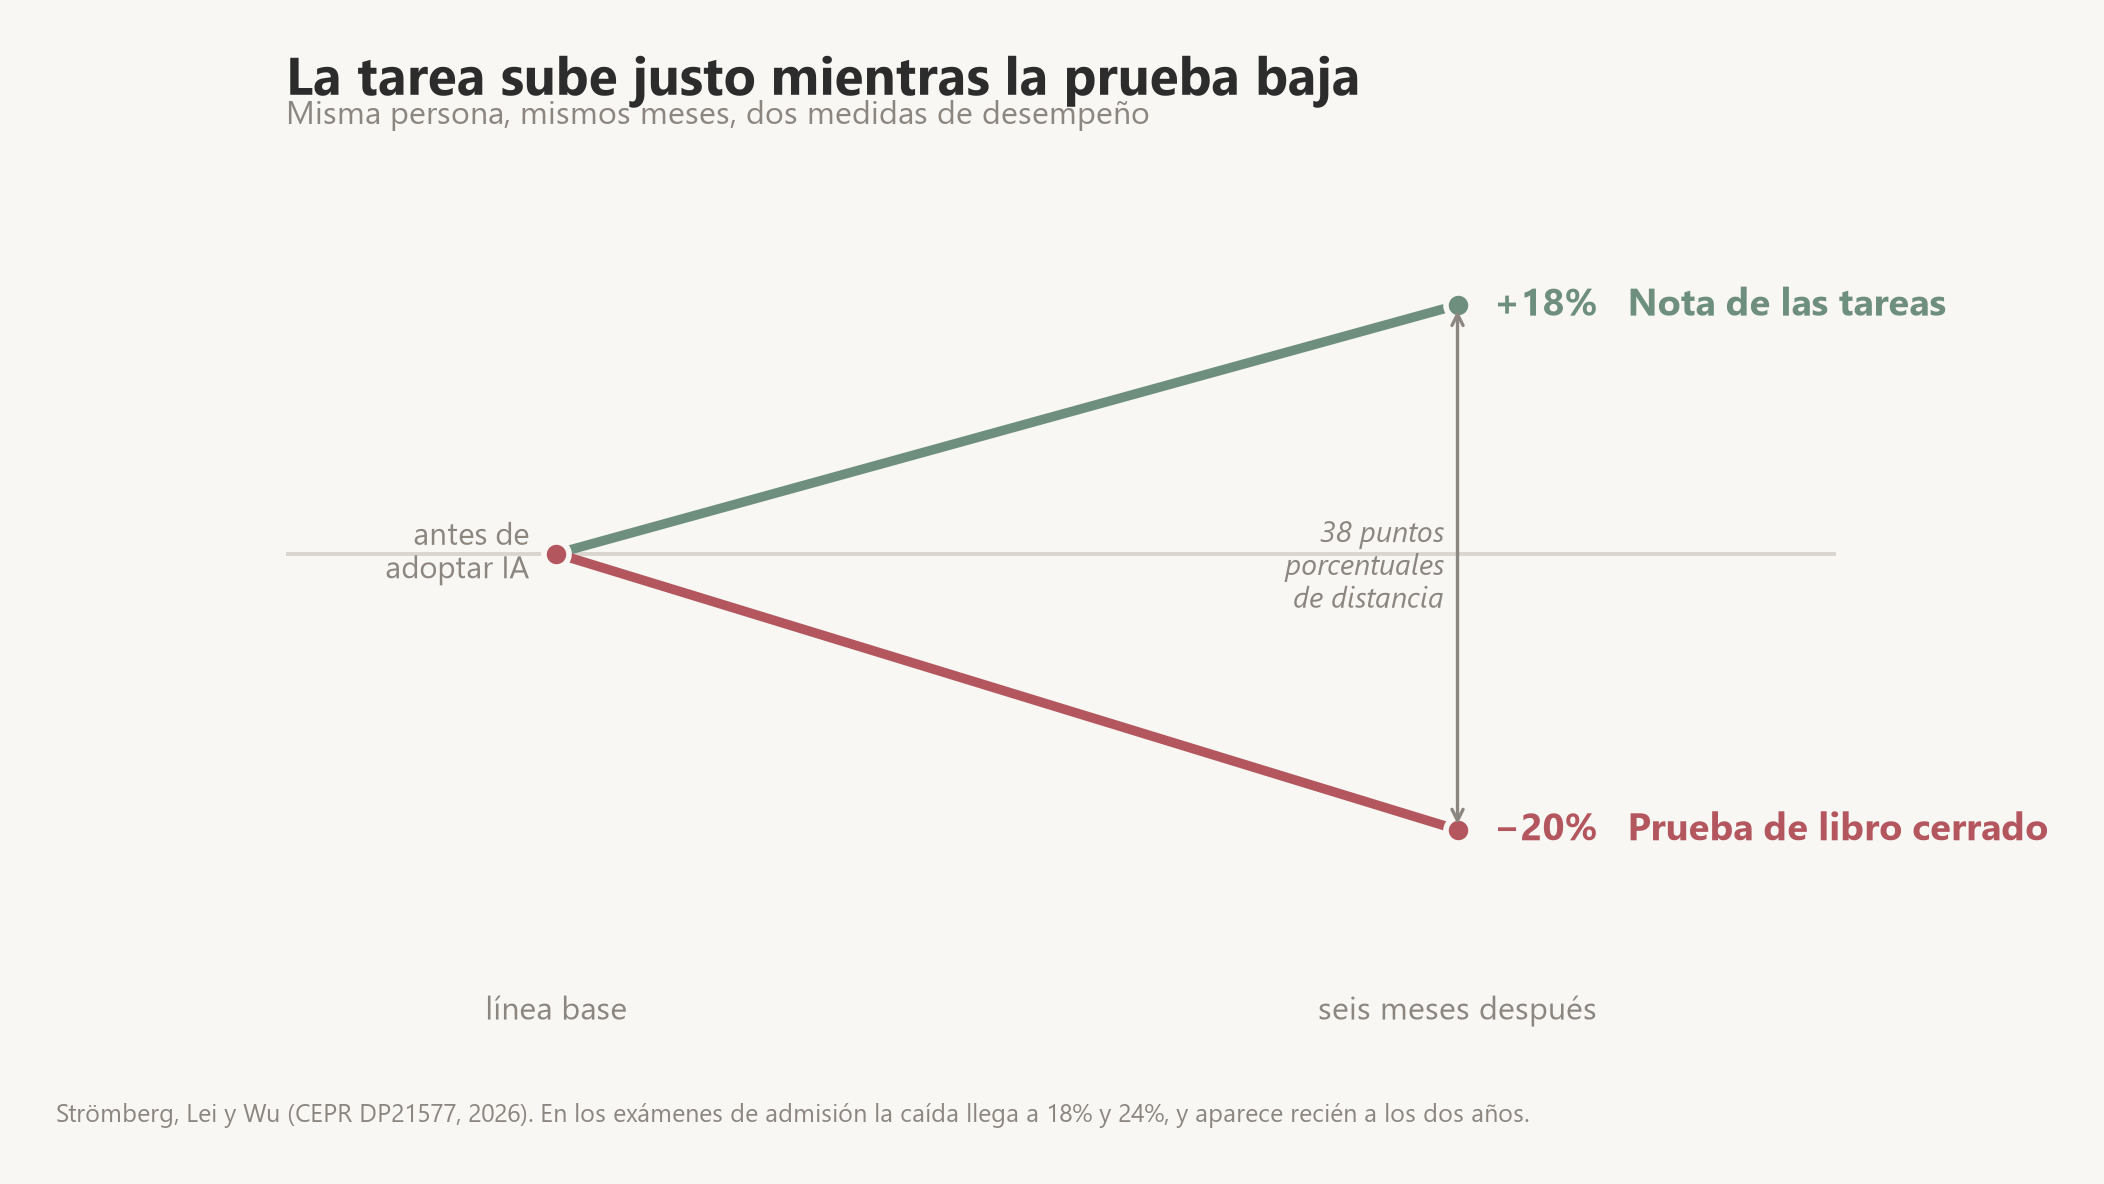
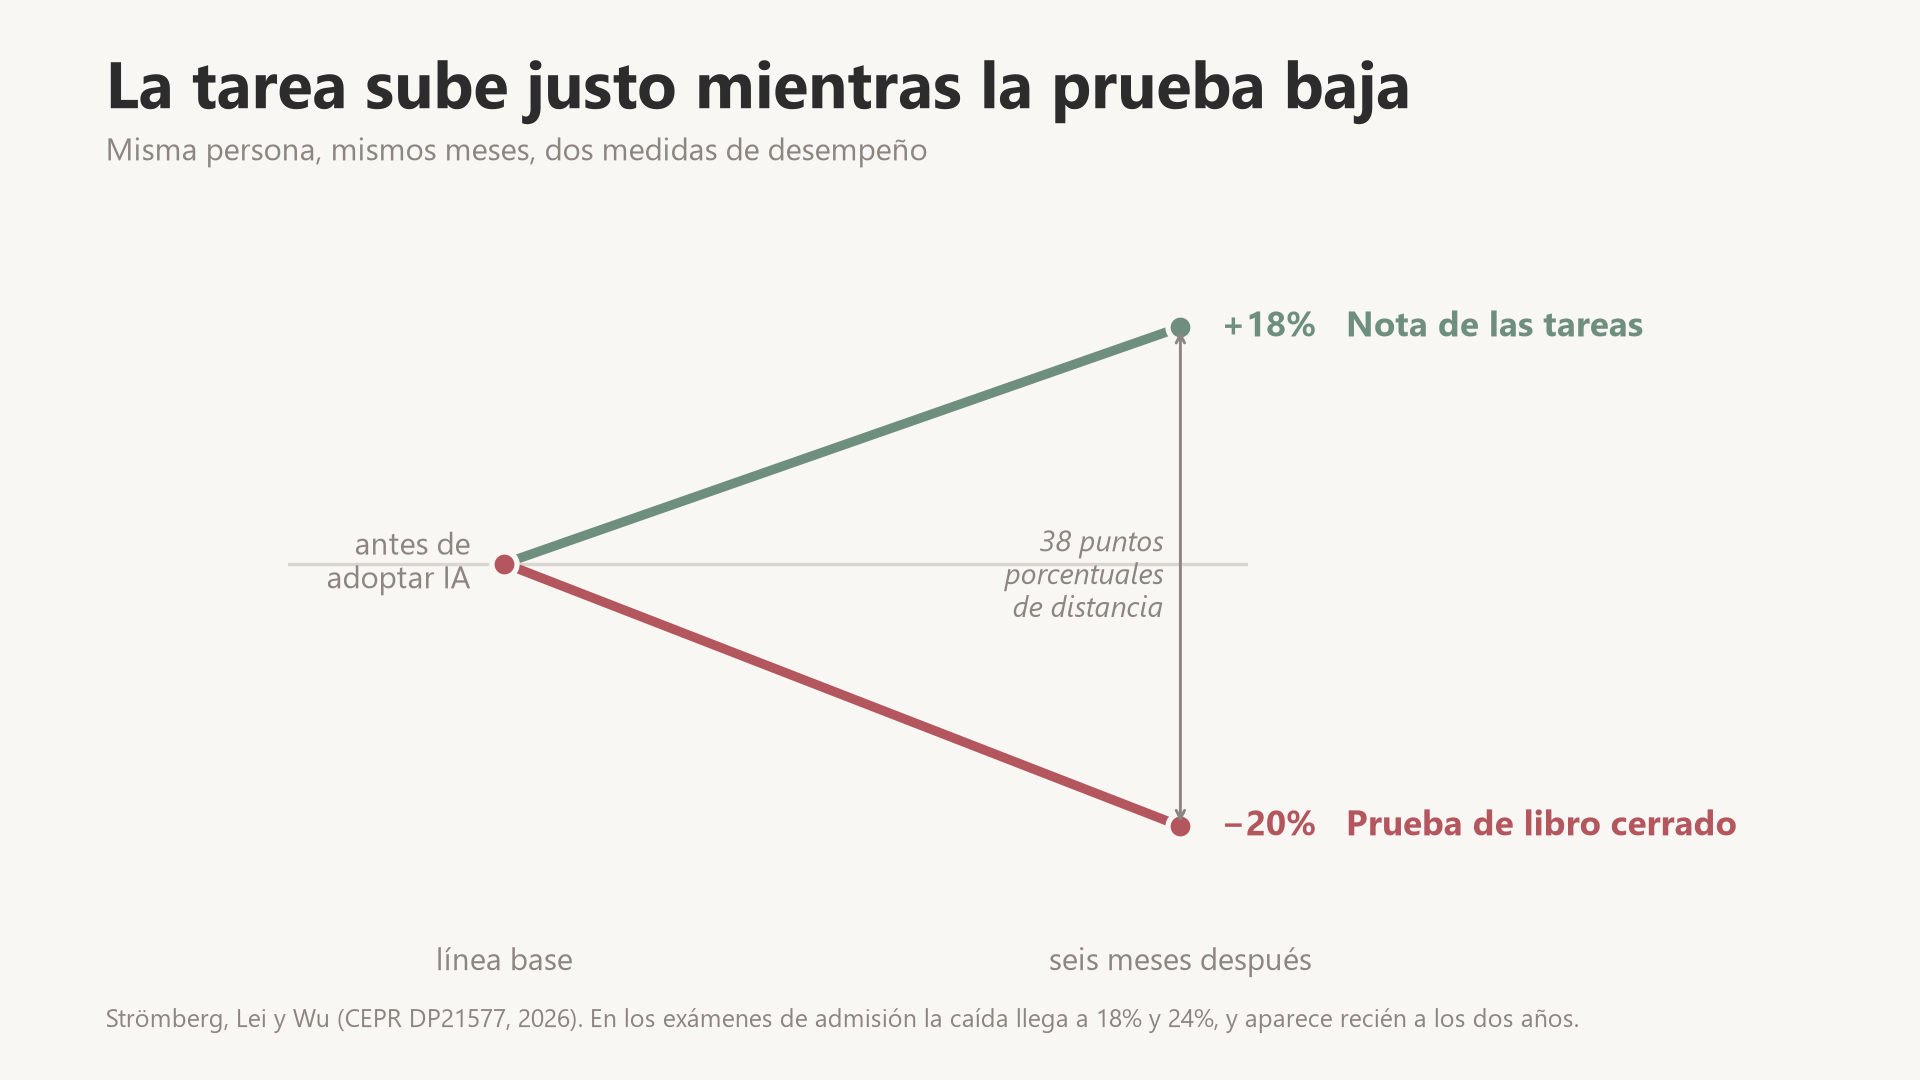
Fija las figuras de la clase 4 a un lienzo 16:9
Con bbox_inches="tight" cada PNG salía recortado al contenido y con una razón
de aspecto distinta, y Google Slides las deforma al meterlas en su caja 16:9.
Ahora los ejes se posicionan a mano en coordenadas de figura sobre un lienzo
de 1920x1080 fijo, y el título, la bajada y la fuente viven en la figura y no
en el eje.

De paso: signo menos tipográfico en vez de guion, y las etiquetas de la
pendiente china dejaron de cortarse contra el borde derecho.

diff --git a/materiales/2026_descripcion_visualizacion_datos/figuras/generar_figuras.py b/materiales/2026_descripcion_visualizacion_datos/figuras/generar_figuras.py
@@ -6,9 +6,17 @@ Cinco gráficos que se insertan en el deck de Google Slides. El estilo replica
 el del template del curso: fondo hueso, texto gris oscuro, acento rosa GobLab,
 sin cajas ni rejillas de más.
 
-Toda cifra que aparece acá está en un paper publicado. Donde el paper no da un
-número (por ejemplo, la magnitud de la pérdida dentro de cada subgrupo chino),
-el gráfico muestra participaciones, no magnitudes inventadas.
+Dos decisiones que conviene no deshacer:
+
+1. **Lienzo fijo de 1920x1080.** Los ejes se posicionan a mano en coordenadas
+   de figura y `bbox_inches` queda en su valor por defecto. Con `bbox="tight"`
+   el PNG sale recortado al contenido, cada figura queda con una razón de
+   aspecto distinta, y Google Slides la deforma al insertarla en una caja 16:9.
+
+2. **Ninguna magnitud inventada.** Toda cifra que aparece acá está en un paper
+   publicado. Donde el paper no reporta un número por subgrupo (por ejemplo, el
+   tamaño de la pérdida dentro de cada mitad de la muestra china), el gráfico
+   muestra participaciones y lo dice.
 
 Fuentes:
   - Otis, Clarke, Delecourt, Holtz y Koning (Management Science, 2026),
@@ -16,8 +24,8 @@ Fuentes:
     Evidence from a Field Experiment in Kenya".
   - Strömberg, Lei y Wu (CEPR DP21577, 2026), "The Generative AI Learning
     Penalty: Evidence from Chinese Secondary Education".
-  - Bastani et al. (PNAS, 2025), "Generative AI without guardrails can harm
-    learning: Evidence from high school mathematics".
+  - Bastani, Bastani, Sungu, Ge, Kabakcı y Mariman (PNAS, 2025), "Generative AI
+    without guardrails can harm learning: Evidence from high school mathematics".
 
     python generar_figuras.py            # escribe los .png en esta carpeta
 """
@@ -40,10 +48,12 @@ GOOD = "#6E8F7D"
 BAD = "#B4565E"
 LINE = "#DAD5CE"
 
+MINUS = "−"   # signo menos tipográfico, no un guion
+
 _installed = {f.name for f in font_manager.fontManager.ttflist}
-for candidate in ("Libre Franklin", "Segoe UI", "Helvetica Neue", "Arial"):
-    if candidate in _installed:
-        FONT = candidate
+for _candidate in ("Libre Franklin", "Segoe UI", "Helvetica Neue", "Arial"):
+    if _candidate in _installed:
+        FONT = _candidate
         break
 else:
     FONT = "DejaVu Sans"
@@ -54,32 +64,24 @@ plt.rcParams.update({
     "axes.facecolor": PAPER,
     "savefig.facecolor": PAPER,
     "text.color": INK,
-    "axes.labelcolor": INK,
     "xtick.color": MUTED,
     "ytick.color": INK,
-    "axes.edgecolor": LINE,
-    "savefig.dpi": 200,
-    "savefig.bbox": "tight",
-    "savefig.pad_inches": 0.28,
+    "savefig.dpi": 150,          # 12.8 x 7.2 pulgadas -> 1920 x 1080
 })
 
 
-def _frame(ax):
-    """Deja solo lo indispensable: sin marco, sin ticks, con línea de cero."""
+def canvas(title, subtitle, source, rect=(0.055, 0.16, 0.90, 0.60)):
+    """Lienzo 16:9 con título, bajada y fuente en posiciones fijas."""
+    fig = plt.figure(figsize=(12.8, 7.2))
+    fig.text(0.055, 0.885, title, fontsize=31, fontweight="bold", color=INK, va="bottom")
+    fig.text(0.055, 0.845, subtitle, fontsize=15, color=MUTED, va="bottom")
+    fig.text(0.055, 0.055, source, fontsize=12, color=MUTED, va="center")
+    ax = fig.add_axes(rect)
+    ax.set_facecolor(PAPER)
     for side in ("top", "right", "left", "bottom"):
         ax.spines[side].set_visible(False)
     ax.tick_params(length=0)
-    ax.set_xticks([])
-
-
-def _titles(ax, title, subtitle):
-    ax.set_title(title, fontsize=19, fontweight="bold", loc="left", pad=26, color=INK)
-    ax.text(0, 1.045, subtitle, transform=ax.transAxes, fontsize=11.5,
-            color=MUTED, ha="left", va="bottom")
-
-
-def _source(fig, text):
-    fig.text(0.01, -0.02, text, fontsize=9, color=MUTED, ha="left", va="top")
+    return fig, ax
 
 
 def _save(fig, name):
@@ -89,178 +91,186 @@ def _save(fig, name):
     print("  escrito:", name)
 
 
+def _pct(v):
+    return ("+" if v > 0 else MINUS) + f"{abs(v)}%"
+
+
 # ── 1. Kenia: la brecha que se abre ────────────────────────────
 def kenia_brecha():
-    fig, ax = plt.subplots(figsize=(10, 4.4))
+    fig, ax = canvas(
+        "Kenia: la misma herramienta, efectos opuestos",
+        "Efecto del acceso a un asistente GPT-4 por WhatsApp sobre las utilidades del negocio "
+        "· 640 emprendedores · 2,5 meses",
+        "Otis, Clarke, Delecourt, Holtz y Koning (Management Science, 2026)",
+        rect=(0.20, 0.16, 0.72, 0.62))
+
     labels = ["Ya les iba mal\nantes del experimento",
               "Promedio\nde los 640",
               "Ya les iba bien\nantes del experimento"]
     values = [-8, 0, 15]
     colors = [BAD, MUTED, GOOD]
 
-    bars = ax.barh(labels, values, height=0.62, color=colors)
-    ax.axvline(0, color=INK, lw=1.4)
+    bars = ax.barh(labels, values, height=0.6, color=colors)
+    ax.axvline(0, color=INK, lw=1.6)
 
-    for bar, v in zip(bars, values):
-        off = 1.1 if v >= 0 else -1.1
-        ax.text(v + off, bar.get_y() + bar.get_height() / 2,
-                (("+" if v > 0 else "−") + f"{abs(v)}%") if v else "0%",
+    for bar, v, c in zip(bars, values, colors):
+        y = bar.get_y() + bar.get_height() / 2
+        ax.text(v + (1.0 if v >= 0 else -1.0), y, _pct(v) if v else "0%",
                 va="center", ha="left" if v >= 0 else "right",
-                fontsize=20, fontweight="bold",
-                color=GOOD if v > 0 else (BAD if v < 0 else MUTED))
+                fontsize=27, fontweight="bold", color=c)
 
-    ax.text(4.6, 1, "sin efecto en promedio", fontsize=11.5, color=MUTED,
+    ax.text(4.4, 1, "sin efecto en promedio", fontsize=15, color=MUTED,
             style="italic", va="center")
 
     ax.set_xlim(-16, 24)
-    ax.tick_params(axis="y", labelsize=12)
-    _frame(ax)
-    _titles(ax, "Kenia: la misma herramienta, efectos opuestos",
-            "Efecto del acceso a un asistente GPT-4 por WhatsApp sobre las utilidades del negocio · "
-            "640 emprendedores · 2,5 meses")
-    _source(fig, "Otis, Clarke, Delecourt, Holtz y Koning (Management Science, 2026)")
+    ax.set_xticks([])
+    ax.tick_params(axis="y", labelsize=15)
     _save(fig, "kenia_brecha.png")
 
 
 # ── 2. China: lo que se ve y lo que se pierde ──────────────────
 def china_tres():
-    fig, ax = plt.subplots(figsize=(10, 4.6))
+    fig, ax = canvas(
+        "China: las tareas mejoran, el aprendizaje no",
+        "Efecto de adoptar IA generativa, a seis meses · 26.811 estudiantes de 7° a 12° "
+        "· 30 meses de panel",
+        "Strömberg, Lei y Wu (CEPR DP21577, 2026). Diferencias en diferencias con adopción "
+        "escalonada.",
+        rect=(0.22, 0.16, 0.70, 0.62))
+
     labels = ["Prueba mensual\nde libro cerrado",
               "Tiempo que tardan\nen hacer la tarea",
               "Nota de las tareas"]
     values = [-20, -30, 18]
     colors = [BAD, ROSE, ROSE]
 
-    bars = ax.barh(labels, values, height=0.62, color=colors)
-    ax.axvline(0, color=INK, lw=1.4)
+    bars = ax.barh(labels, values, height=0.6, color=colors)
+    ax.axvline(0, color=INK, lw=1.6)
 
     for bar, v, c in zip(bars, values, colors):
-        off = 1.6 if v >= 0 else -1.6
-        ax.text(v + off, bar.get_y() + bar.get_height() / 2,
-                ("+" if v > 0 else "−") + f"{abs(v)}%",
+        y = bar.get_y() + bar.get_height() / 2
+        ax.text(v + (1.5 if v >= 0 else -1.5), y, _pct(v),
                 va="center", ha="left" if v >= 0 else "right",
-                fontsize=21, fontweight="bold", color=c)
+                fontsize=27, fontweight="bold", color=c)
 
-    ax.text(-45, 1.52, "lo que ve\nel profesor", fontsize=11.5, color=ROSE,
+    ax.text(3, 1.5, "lo que ve\nel profesor", fontsize=15, color=ROSE,
             style="italic", ha="left", va="center")
-    ax.text(-45, 0.0, "lo que\nse pierde", fontsize=11.5, color=BAD,
+    ax.text(3, 0.0, "lo que\nse pierde", fontsize=15, color=BAD,
             style="italic", ha="left", va="center")
 
     ax.set_xlim(-46, 32)
-    ax.tick_params(axis="y", labelsize=12.5)
-    _frame(ax)
-    _titles(ax, "China: las tareas mejoran, el aprendizaje no",
-            "Efecto de adoptar IA generativa, a seis meses · 26.811 estudiantes de 7° a 12° · "
-            "30 meses de panel")
-    _source(fig, "Strömberg, Lei y Wu (CEPR DP21577, 2026). Diseño de diferencias en diferencias "
-                 "con adopción escalonada.")
+    ax.set_xticks([])
+    ax.tick_params(axis="y", labelsize=15)
     _save(fig, "china_tres.png")
 
 
 # ── 3. China: la pendiente que se separa ───────────────────────
 def china_pendiente():
-    fig, ax = plt.subplots(figsize=(10, 5.2))
+    fig, ax = canvas(
+        "La tarea sube justo mientras la prueba baja",
+        "Misma persona, mismos meses, dos medidas de desempeño",
+        "Strömberg, Lei y Wu (CEPR DP21577, 2026). En los exámenes de admisión la caída llega "
+        "a 18% y 24%, y aparece recién a los dos años.",
+        rect=(0.15, 0.15, 0.50, 0.62))
 
-    series = [("Nota de las tareas", 18, GOOD),
-              ("Prueba de libro cerrado", -20, BAD)]
-    for name, end, color in series:
-        ax.plot([0, 1], [0, end], color=color, lw=3.4, solid_capstyle="round",
-                marker="o", markersize=9, markerfacecolor=color, markeredgecolor=PAPER,
-                markeredgewidth=2)
-        etiqueta = ("+" if end > 0 else "−") + f"{abs(end)}%"
-        ax.text(1.04, end, f"{etiqueta}   {name}",
-                fontsize=13.5, color=color, va="center", fontweight="bold")
+    for name, end, color in [("Nota de las tareas", 18, GOOD),
+                             ("Prueba de libro cerrado", -20, BAD)]:
+        ax.plot([0, 1], [0, end], color=color, lw=4.5, solid_capstyle="round",
+                marker="o", markersize=12, markerfacecolor=color,
+                markeredgecolor=PAPER, markeredgewidth=2.5)
+        ax.text(1.06, end, f"{_pct(end)}   {name}", fontsize=17, color=color,
+                va="center", fontweight="bold")
 
-    ax.axhline(0, color=LINE, lw=1.4, zorder=0)
-    ax.text(-0.03, 0, "antes de\nadoptar IA", fontsize=11, color=MUTED,
+    ax.axhline(0, color=LINE, lw=1.6, zorder=0)
+    ax.text(-0.05, 0, "antes de\nadoptar IA", fontsize=15, color=MUTED,
             ha="right", va="center")
 
     ax.annotate("", xy=(1.0, 18), xytext=(1.0, -20),
-                arrowprops=dict(arrowstyle="<->", color=MUTED, lw=1.2))
-    ax.text(0.985, -1, "38 puntos\nporcentuales\nde distancia", fontsize=10.5,
+                arrowprops=dict(arrowstyle="<->", color=MUTED, lw=1.4))
+    ax.text(0.975, -1, "38 puntos\nporcentuales\nde distancia", fontsize=14,
             color=MUTED, ha="right", va="center", style="italic")
 
-    ax.set_xlim(-0.30, 1.42)
-    ax.set_ylim(-30, 28)
+    ax.set_xlim(-0.32, 1.10)
+    ax.set_ylim(-27, 24)
     ax.set_xticks([0, 1])
-    ax.set_xticklabels(["línea base", "seis meses después"], fontsize=11.5, color=MUTED)
-    ax.tick_params(axis="x", length=0, pad=10)
+    ax.set_xticklabels(["línea base", "seis meses después"], fontsize=15, color=MUTED)
+    ax.tick_params(axis="x", length=0, pad=14)
     ax.set_yticks([])
-    for side in ("top", "right", "left", "bottom"):
-        ax.spines[side].set_visible(False)
-    _titles(ax, "La tarea sube justo mientras la prueba baja",
-            "Misma persona, mismos meses, dos medidas de desempeño")
-    _source(fig, "Strömberg, Lei y Wu (CEPR DP21577, 2026). En los exámenes de admisión la caída "
-                 "llega a 18% y 24%, y aparece recién a los dos años.")
     _save(fig, "china_pendiente.png")
 
 
 # ── 4. Quién paga la cuenta: el patrón de tercerización ────────
 def china_outsourcing():
-    fig, ax = plt.subplots(figsize=(10, 3.4))
+    fig, ax = canvas(
+        "No es la IA: es cómo se usa",
+        "Cómo se reparten los usuarios de IA de la muestra china",
+        "Strömberg, Lei y Wu (CEPR DP21577, 2026)",
+        rect=(0.055, 0.22, 0.90, 0.50))
 
-    ax.barh([0], [80], height=0.55, color=BAD)
-    ax.barh([0], [20], left=[80], height=0.55, color=GOOD)
+    ax.barh([0], [80], height=0.42, color=BAD)
+    ax.barh([0], [20], left=[80], height=0.42, color=GOOD)
 
-    ax.text(40, 0, "80%", ha="center", va="center", fontsize=26,
+    ax.text(40, 0, "80%", ha="center", va="center", fontsize=44,
             fontweight="bold", color=PAPER)
-    ax.text(90, 0, "20%", ha="center", va="center", fontsize=20,
+    ax.text(90, 0, "20%", ha="center", va="center", fontsize=30,
             fontweight="bold", color=PAPER)
 
-    ax.text(40, -0.52, "Terceriza la tarea: puntaje altísimo\nen tiempo brevísimo",
-            ha="center", va="top", fontsize=12.5, color=BAD)
-    ax.text(90, -0.52, "Mantiene el tiempo\nde estudio", ha="center", va="top",
-            fontsize=12.5, color=GOOD)
+    ax.text(40, 0.30, "acá se concentra toda la pérdida", ha="center", va="bottom",
+            fontsize=16, color=MUTED, style="italic")
+    ax.text(90, 0.30, "pérdida pequeña", ha="center", va="bottom",
+            fontsize=16, color=MUTED, style="italic")
 
-    ax.text(40, 0.5, "acá se concentra toda la pérdida", ha="center", va="bottom",
-            fontsize=11.5, color=MUTED, style="italic")
-    ax.text(90, 0.5, "pérdida pequeña", ha="center", va="bottom",
-            fontsize=11.5, color=MUTED, style="italic")
+    ax.text(40, -0.30, "Terceriza la tarea:\npuntaje altísimo en tiempo brevísimo",
+            ha="center", va="top", fontsize=17, color=BAD)
+    ax.text(90, -0.30, "Mantiene el tiempo\nde estudio", ha="center", va="top",
+            fontsize=17, color=GOOD)
 
     ax.set_xlim(0, 100)
-    ax.set_ylim(-1.25, 1.0)
+    ax.set_ylim(-1.0, 0.75)
+    ax.set_xticks([])
     ax.set_yticks([])
-    _frame(ax)
-    _titles(ax, "No es la IA: es cómo se usa",
-            "Cómo se reparten los usuarios de IA de la muestra china")
-    _source(fig, "Strömberg, Lei y Wu (CEPR DP21577, 2026)")
     _save(fig, "china_outsourcing.png")
 
 
 # ── 5. Turquía: el mismo modelo, con y sin barandas ────────────
 def turquia_barandas():
-    fig, ax = plt.subplots(figsize=(10, 5.2))
+    fig, ax = canvas(
+        "El daño no viene del modelo: viene del diseño",
+        "Efecto sobre matemáticas de educación media · cerca de 1.000 estudiantes · Turquía",
+        "Bastani, Bastani, Sungu, Ge, Kabakcı y Mariman (PNAS, 2025)",
+        rect=(0.26, 0.17, 0.66, 0.60))
 
-    grupos = ["GPT-4 sin barandas\n(responde directo)", "GPT-4 con barandas\n(tutor que no da la respuesta)"]
+    grupos = ["GPT-4 sin barandas\n(responde directo)",
+              "GPT-4 con barandas\n(tutor que no da la respuesta)"]
     practica = [48, 127]
     prueba = [-17, 0]
+    y = [1.0, 0.0]
+    h = 0.30
 
-    y = [0.9, 0]
-    h = 0.32
-    ax.barh([v + h / 1.7 for v in y], practica, height=h, color=ROSE,
+    ax.barh([v + h * 0.62 for v in y], practica, height=h, color=ROSE,
             label="Mientras practican, con la IA al lado")
-    ax.barh([v - h / 1.7 for v in y], prueba, height=h, color=BAD,
+    ax.barh([v - h * 0.62 for v in y], prueba, height=h, color=BAD,
             label="En la prueba, sin la IA")
+    ax.axvline(0, color=INK, lw=1.6)
 
-    ax.axvline(0, color=INK, lw=1.4)
-
-    for yy, v in zip([y[0] + h / 1.7, y[1] + h / 1.7], practica):
-        ax.text(v + 3, yy, f"+{v}%", va="center", fontsize=17,
+    for yy, v in zip([y[0] + h * 0.62, y[1] + h * 0.62], practica):
+        ax.text(v + 4, yy, _pct(v), va="center", fontsize=24,
                 fontweight="bold", color=ROSE)
-    for yy, v in zip([y[0] - h / 1.7, y[1] - h / 1.7], prueba):
-        txt = ("−" + f"{abs(v)}%") if v else "sin daño"
-        ax.text(v - 3 if v else 4, yy, txt, va="center",
-                ha="right" if v else "left", fontsize=17,
-                fontweight="bold", color=BAD if v else GOOD)
+    for yy, v in zip([y[0] - h * 0.62, y[1] - h * 0.62], prueba):
+        if v:
+            ax.text(v - 4, yy, _pct(v), va="center", ha="right", fontsize=24,
+                    fontweight="bold", color=BAD)
+        else:
+            ax.text(5, yy, "sin daño", va="center", ha="left", fontsize=24,
+                    fontweight="bold", color=GOOD)
 
     ax.set_yticks(y)
-    ax.set_yticklabels(grupos, fontsize=12)
-    ax.set_xlim(-40, 155)
-    _frame(ax)
-    ax.legend(loc="lower right", frameon=False, fontsize=11.5, labelcolor=INK)
-    _titles(ax, "El daño no viene del modelo: viene del diseño",
-            "Efecto sobre matemáticas de educación media · ~1.000 estudiantes · Turquía")
-    _source(fig, "Bastani, Bastani, Sungu, Ge, Kabakcı y Mariman (PNAS, 2025)")
+    ax.set_yticklabels(grupos, fontsize=15)
+    ax.set_xlim(-42, 160)
+    ax.set_ylim(-0.55, 1.55)
+    ax.set_xticks([])
+    ax.legend(loc="lower right", frameon=False, fontsize=14, labelcolor=INK,
+              bbox_to_anchor=(1.02, -0.16))
     _save(fig, "turquia_barandas.png")
 
 
